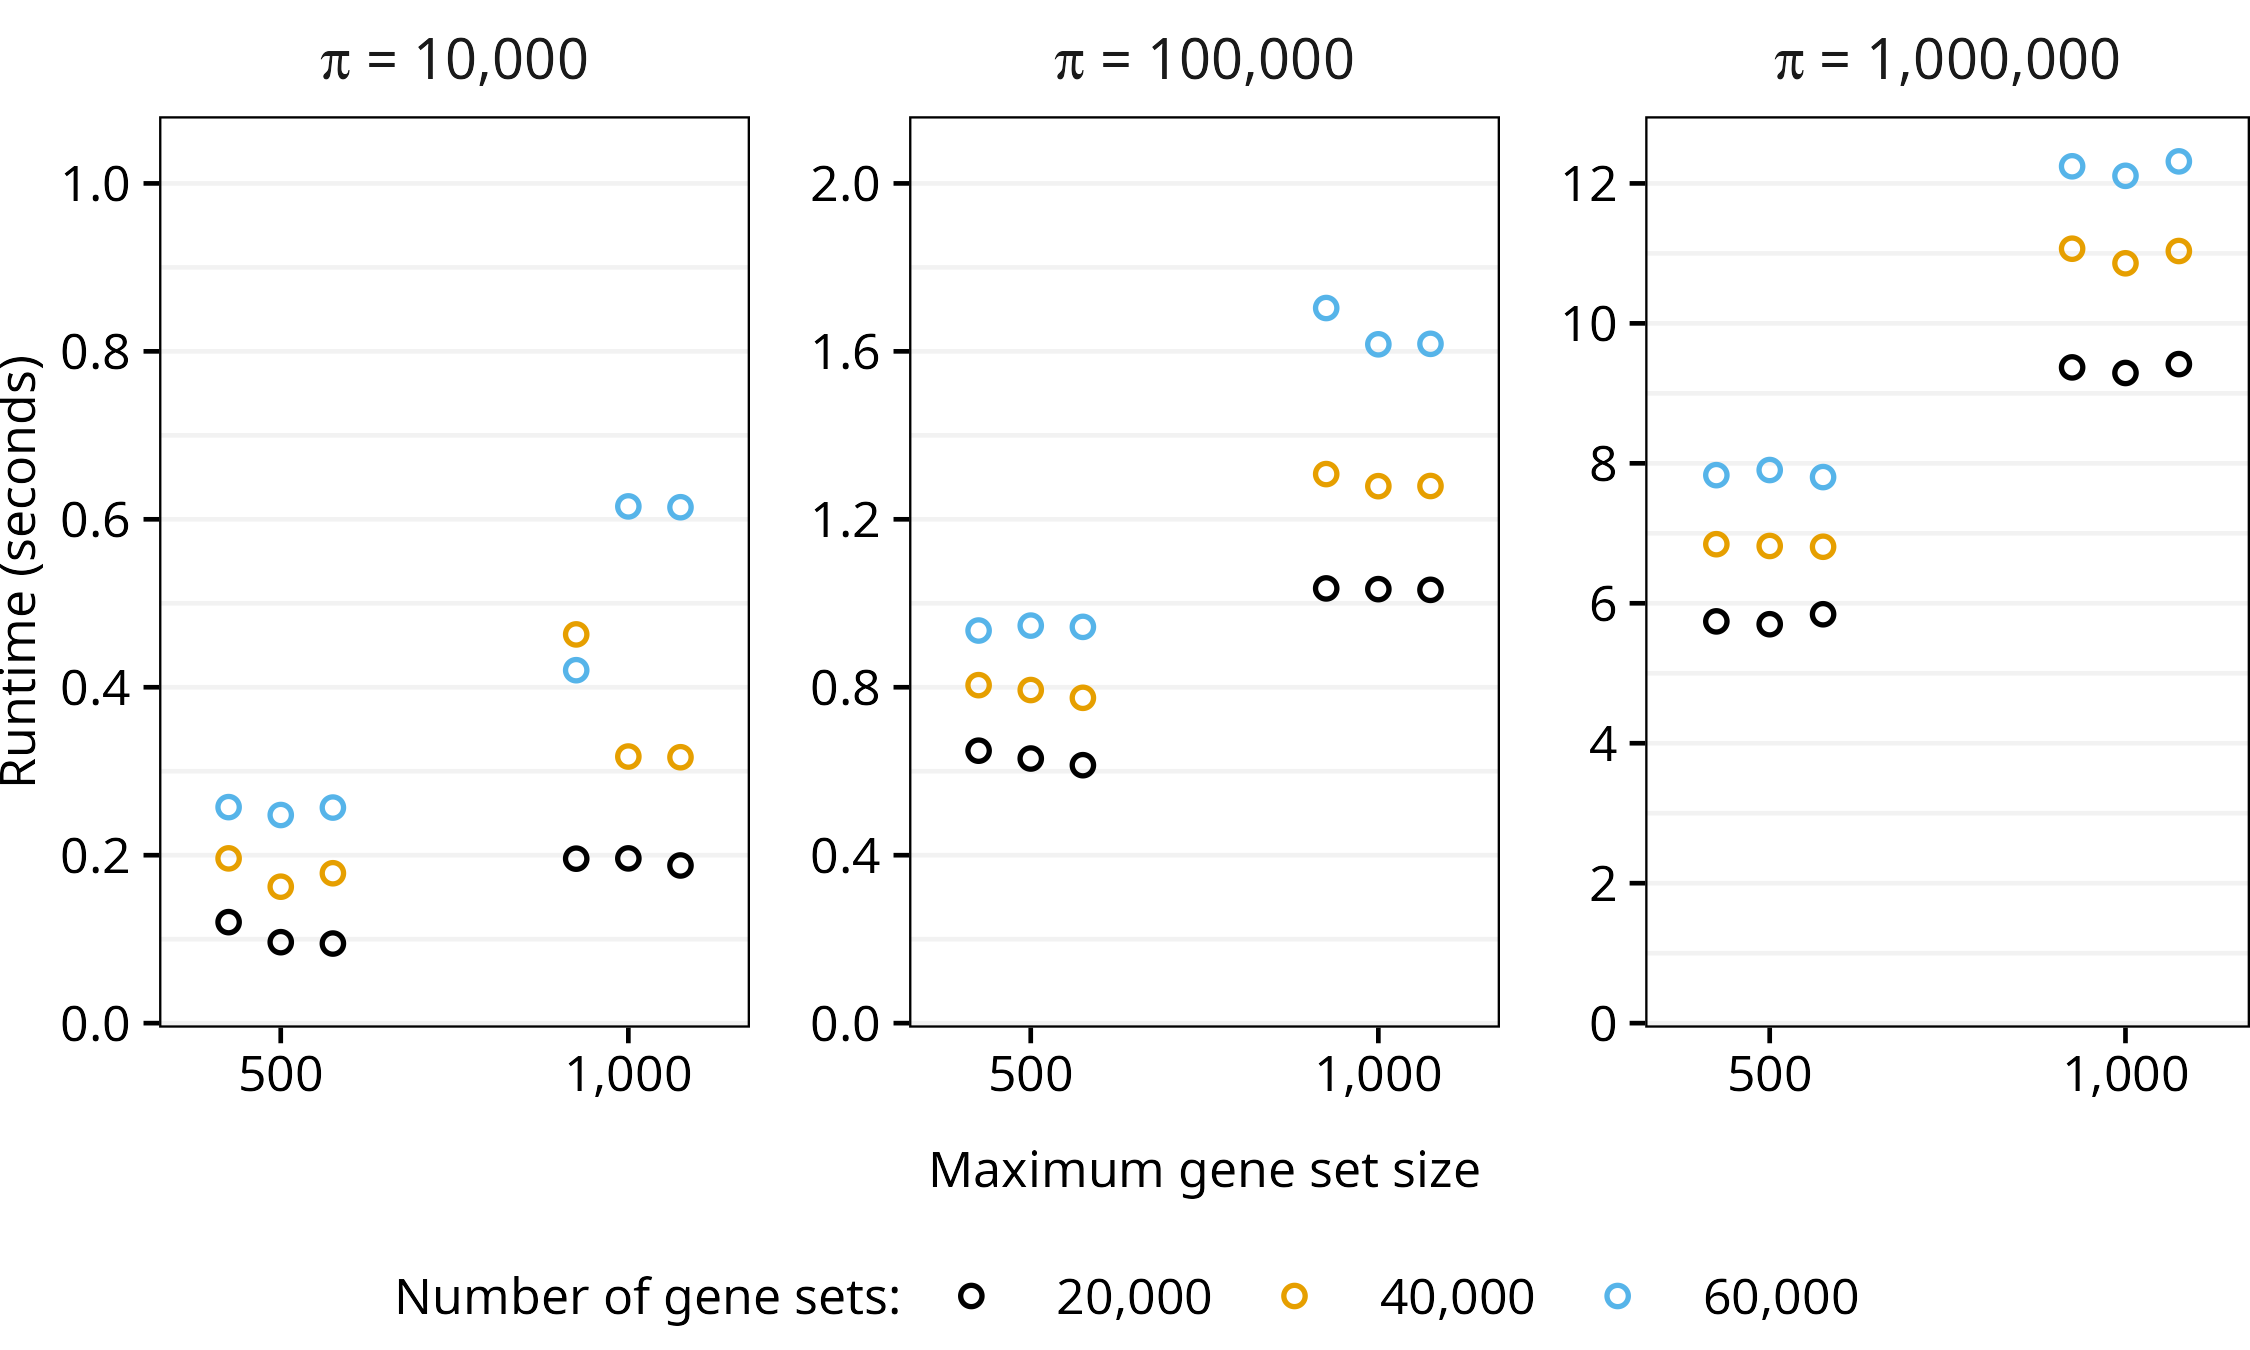
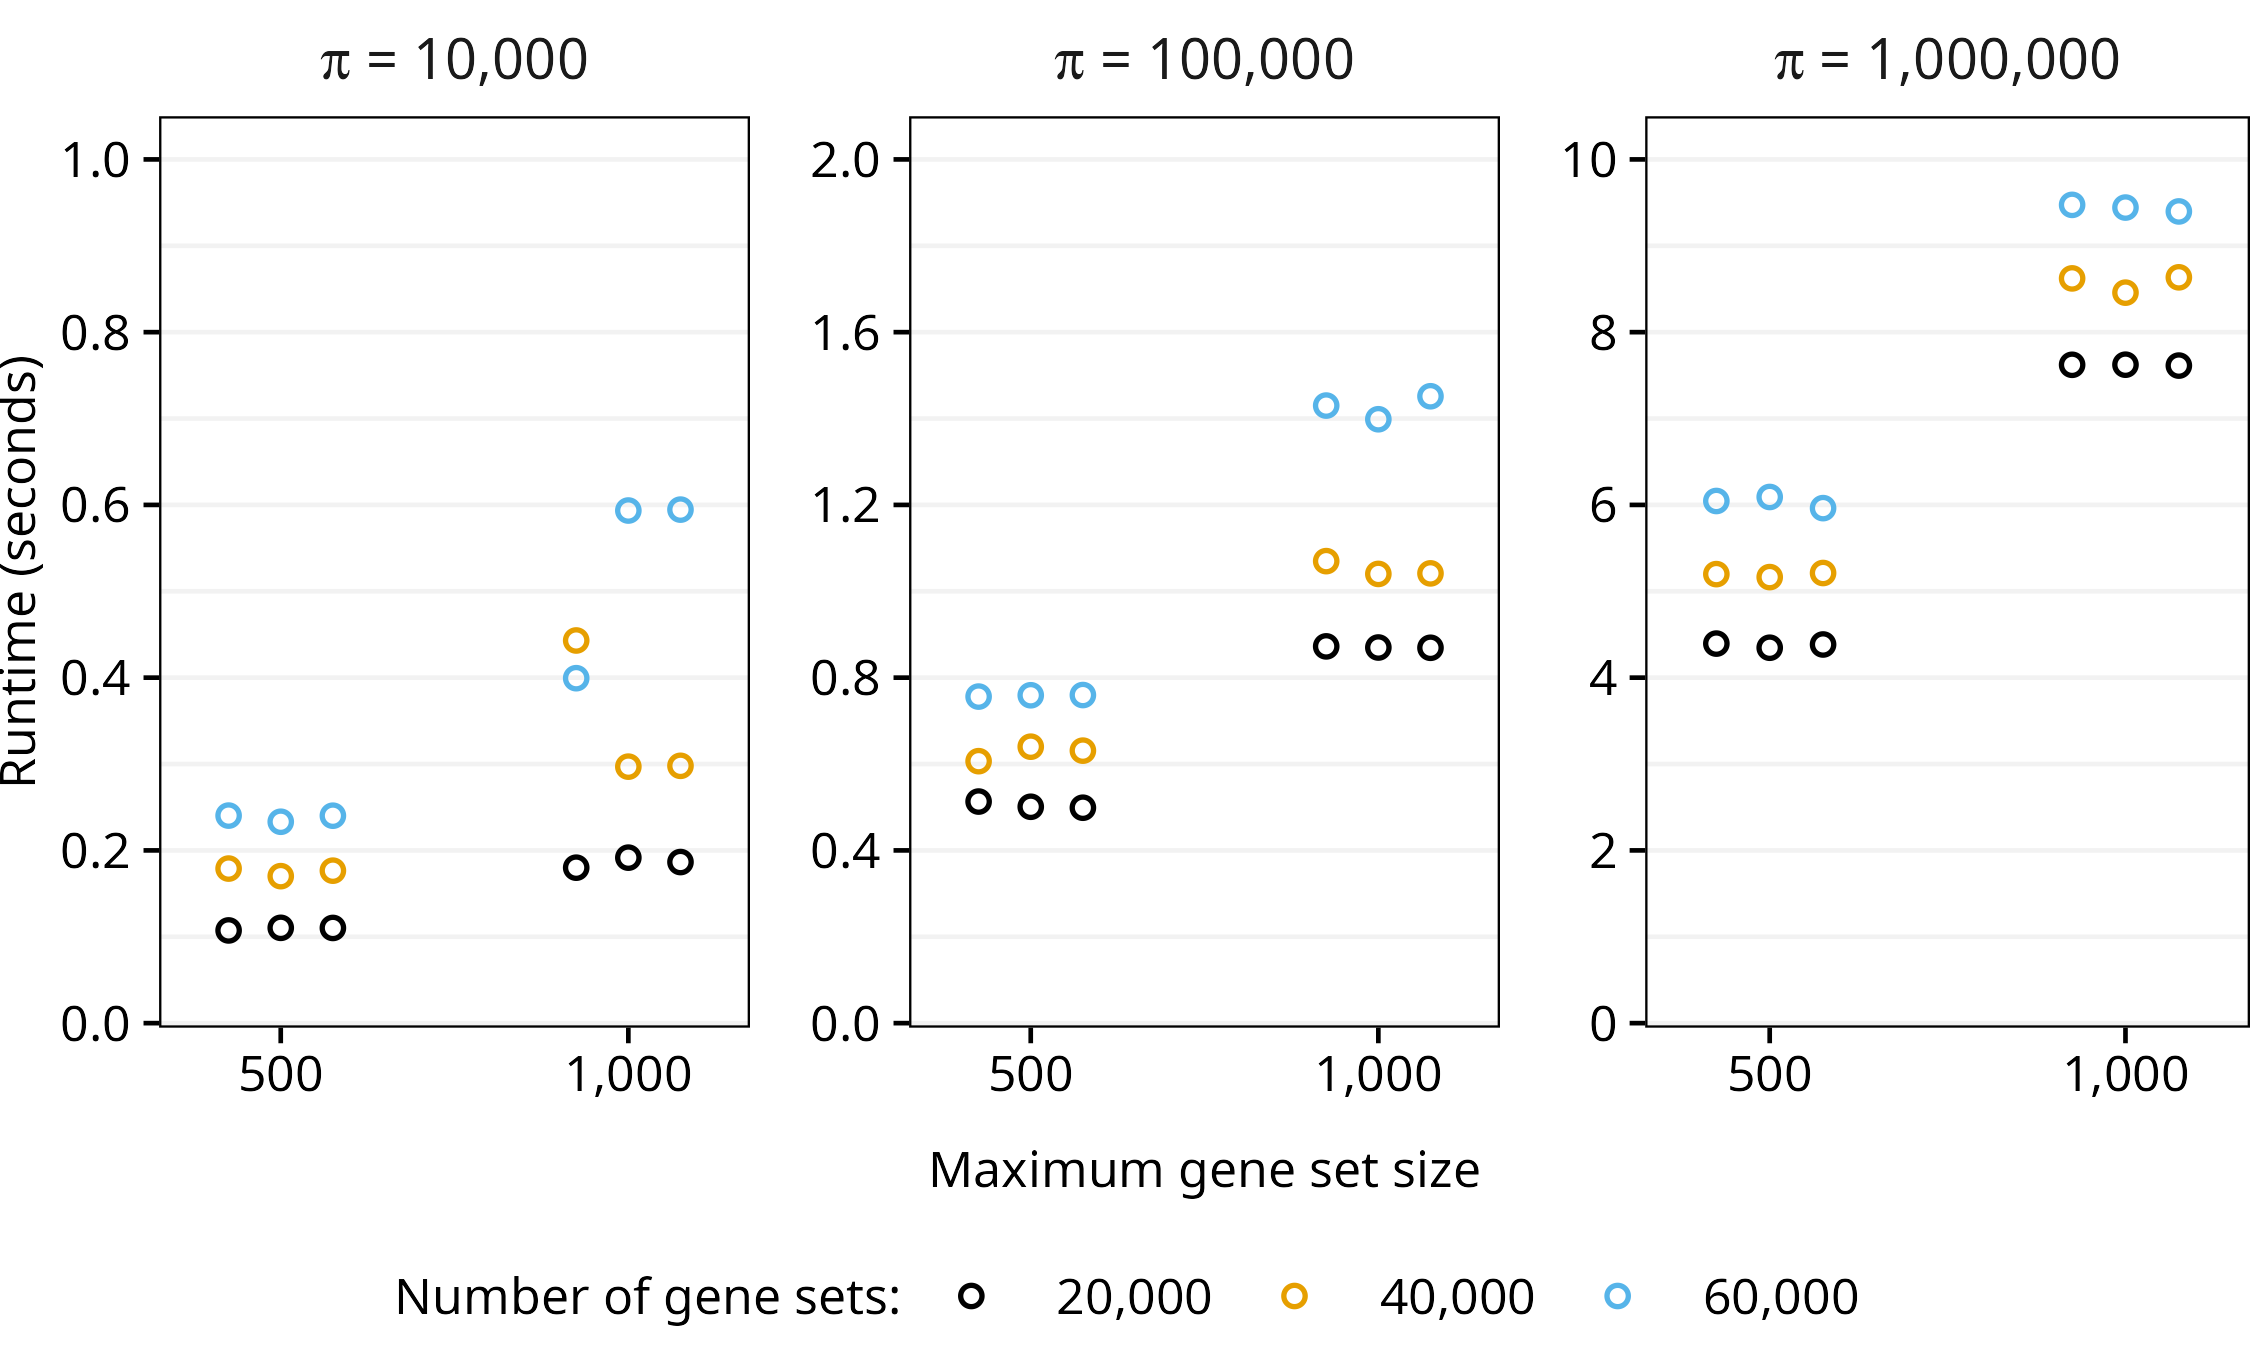
Sort permutation ES by sign

diff --git a/src/Rcpp_functions.cpp b/src/Rcpp_functions.cpp
@@ -1,7 +1,7 @@
 // [[Rcpp::depends(dqrng)]]
 #include <dqrng.h>
 
-const int BLOCK_SIZE = 32; // size of permutation ES blocks
+#define BLOCK_SIZE 32
 
 
 //' @title Get the Index of the First Positive ES for Every Unique Gene Set Size
@@ -150,8 +150,6 @@ inline void calc_ES_perm_internal(float *pES_perm_mat,
                                   const float sum_ranks,
                                   const int *punique_m,
                                   const float *punique_w_float) {
-  int idx = 0;
-
   for (int b = 0; b < block_size; ++b) {
     const Rcpp::IntegerVector rand_idx = dqrng::dqsample_int(
       n_genes,
@@ -166,7 +164,9 @@ inline void calc_ES_perm_internal(float *pES_perm_mat,
 
     int start = 0;
 
-    for (int s = 0; s < n_sizes; ++s, ++idx) {
+    int idx = b;
+
+    for (int s = 0; s < n_sizes; ++s, idx += block_size) {
       const int end = punique_m[s];
 
       // Prefix sums
@@ -189,10 +189,70 @@ inline void calc_ES_perm_internal(float *pES_perm_mat,
 }
 
 
+//' @title Sort permutation ES by sign
+//'
+//' @param pn_perm_neg a pointer to an integer vector that stores the number of
+//'   negative permutation ES for each unique gene set size.
+//' @param pES_perm_pos_idx a pointer to an integer vector that stores the index
+//'   of the first positive permutation ES for each unique gene set size for a
+//'   given block of permutation ES.
+//' @param pES_perm_mat a pointer to a float vector containing permutation ES.
+//'   Permutation ES for gene sets of the same size are arranged in blocks of
+//'   (at most) 32 consecutive elements.
+//' @param n_sizes integer; the number of unique gene set sizes.
+//' @param block_size integer; the size of a block of permutation ES. Between 1
+//'   and 32.
+//'
+//' @details For each unique gene set size, sort permutation ES by sign. This is
+//'   done in one pass by swapping elements. By sorting the permutation ES and
+//'   keeping track of the index of the first positive element for each unique
+//'   set size, we can update n_perm_neg in one pass per block of (at most 32)
+//'   permutation ES. Additionally, we can skip needing to check the sign of the
+//'   permutation ES in update_n_same_sign(); instead, the permutation ES loop
+//'   is split to separately iterate over the negative and positive elements.
+//'
+//' @author Tyler Sagendorf
+//'
+//' @noRd
+inline void update_n_perm_neg(int *pn_perm_neg,
+                              int *pES_perm_pos_idx,
+                              float *pES_perm_mat,
+                              const int n_sizes,
+                              const int block_size) {
+  float swap;
+
+  int start_perm = 0;
+
+  for (int s = 0; s < n_sizes; ++s) {
+    const int end_perm = start_perm + block_size;
+
+    int swap_index = start_perm - 1;
+
+    for (int k = start_perm; k < end_perm; ++k) {
+
+      if (pES_perm_mat[k] < 0.0f) {
+        ++swap_index;
+
+        swap = pES_perm_mat[k];
+        pES_perm_mat[k] = pES_perm_mat[swap_index];
+        pES_perm_mat[swap_index] = swap;
+      }
+    }
+
+    swap_index += 1 - start_perm; // between 0 and block_size
+
+    pn_perm_neg[s] += swap_index;
+    pES_perm_pos_idx[s] = swap_index;
+
+    start_perm = end_perm;
+  }
+}
+
+
 inline void update_n_as_extreme(int *pn_as_extreme,
-                                int *pn_perm_neg,
                                 float *psum_perm_neg,
                                 float *psum_perm_pos,
+                                const int *pES_perm_pos_idx,
                                 const float *pES_perm_mat,
                                 const float *pES,
                                 const int *pES_start,
@@ -200,60 +260,69 @@ inline void update_n_as_extreme(int *pn_as_extreme,
                                 const int *pES_end,
                                 const int n_sizes,
                                 const int block_size) {
-  int start_block, end_block;
+  int start_block;
+
+  int idx = 0;
 
   for (int s = 0; s < n_sizes; ++s) {
     const int ES_start_s = pES_start[s];
     const int ES_pos_idx_s = pES_pos_idx[s];
     const int ES_end_s = pES_end[s];
 
-    int idx = s - n_sizes;
+    const int ES_perm_pos_idx_s = pES_perm_pos_idx[s];
 
-    for (int b = 0; b < block_size; ++b) {
-      idx += n_sizes;
+    // Negative permutation ES ----
+    float sum_perm = 0.0f;
 
+    const int end_block_neg = ES_pos_idx_s - 3;
+
+    for (int b = 0; b < ES_perm_pos_idx_s; ++b, ++idx) {
       const float ES_perm = pES_perm_mat[idx];
 
-      if (ES_perm < 0.0f) {
-        ++pn_perm_neg[s];
-        psum_perm_neg[s] -= ES_perm;
+      sum_perm -= ES_perm;
 
-        // Iterate over negative ES
-        start_block = ES_start_s;
-        end_block = ES_pos_idx_s - 4;
+      start_block = ES_start_s;
 
-        while (start_block < end_block) {
-          for (int k = 0; k < 4; ++k) { // vectorized by compiler
-            pn_as_extreme[start_block] += ES_perm <= pES[start_block];
-            ++start_block;
-          }
+      // Negative ES
+      while (start_block < end_block_neg) {
+        for (int k = 0; k < 4; ++k, ++start_block) { // vectorized by compiler
+          pn_as_extreme[start_block] += ES_perm <= pES[start_block];
         }
-
-        for (int k = start_block; k < ES_pos_idx_s; ++k) {
-          pn_as_extreme[k] += ES_perm <= pES[k];
-        }
-
-      } else {
-        psum_perm_pos[s] += ES_perm;
-
-        // Iterate over positive ES
-        start_block = ES_pos_idx_s;
-        end_block = ES_end_s - 4;
-
-        while (start_block < end_block) {
-          for (int k = 0; k < 4; ++k) {
-            pn_as_extreme[start_block] += ES_perm >= pES[start_block];
-            ++start_block;
-          }
-        }
-
-        for (int k = start_block; k < ES_end_s; ++k) {
-          pn_as_extreme[k] += ES_perm >= pES[k];
-        }
-
       }
 
-    } // end block ES loop
+      for (int k = start_block; k < ES_pos_idx_s; ++k) {
+        pn_as_extreme[k] += ES_perm <= pES[k];
+      }
+    }
+
+    psum_perm_neg[s] += sum_perm;
+
+    // Positive permutation ES ----
+    sum_perm = 0.0f;
+
+    const int end_block_pos = ES_end_s - 3;
+
+    for (int b = ES_perm_pos_idx_s; b < block_size; ++b, ++idx) {
+      const float ES_perm = pES_perm_mat[idx];
+
+      sum_perm += ES_perm;
+
+      start_block = ES_pos_idx_s;
+
+      // Positive ES
+      while (start_block < end_block_pos) {
+        for (int k = 0; k < 4; ++k, ++start_block) {
+          pn_as_extreme[start_block] += ES_perm >= pES[start_block];
+        }
+      }
+
+      for (int k = start_block; k < ES_end_s; ++k) {
+        pn_as_extreme[k] += ES_perm >= pES[k];
+      }
+    }
+
+    psum_perm_pos[s] += sum_perm;
+
   } // end unique set size loop
 
   // n_as_extreme, n_perm_neg, sum_perm_neg, sum_perm_pos are modified in place
@@ -357,15 +426,15 @@ void calc_ES_perm(SEXP n_same_sign,
   // Vectors updated with each permutation
   std::vector<int> n_perm_neg(n_sizes);
   int *pn_perm_neg = &n_perm_neg[0];
-  memset(pn_perm_neg, 0, n_sizes * sizeof(int));
+
+  std::vector<int> ES_perm_pos_idx(n_sizes);
+  int *pES_perm_pos_idx = &ES_perm_pos_idx[0];
 
   std::vector<float> sum_perm_neg(n_sizes);
   float *psum_perm_neg = &sum_perm_neg[0];
-  memset(psum_perm_neg, 0, n_sizes * sizeof(float));
 
   std::vector<float> sum_perm_pos(n_sizes, 0.0f);
   float *psum_perm_pos = &sum_perm_pos[0];
-  memset(psum_perm_pos, 0, n_sizes * sizeof(float));
 
   // Index of the first ES in each unique set size group
   std::vector<int> ES_start(n_sizes);
@@ -417,12 +486,22 @@ void calc_ES_perm(SEXP n_same_sign,
       punique_w_float
     );
 
-    // Update n_as_extreme, n_perm_neg, sum_perm_neg, and sum_perm_pos
+    // Sort permutation ES by sign within each block; update n_perm_neg and
+    // ES_perm_pos_idx
+    update_n_perm_neg(
+      pn_perm_neg,
+      pES_perm_pos_idx,
+      pES_perm_mat,
+      n_sizes,
+      partial_block_size
+    );
+
+    // Update n_as_extreme, sum_perm_neg, and sum_perm_pos
     update_n_as_extreme(
       pn_as_extreme,
-      pn_perm_neg,
       psum_perm_neg,
       psum_perm_pos,
+      pES_perm_pos_idx,
       pES_perm_mat,
       pES,
       pES_start,
@@ -452,11 +531,19 @@ void calc_ES_perm(SEXP n_same_sign,
       punique_w_float
     );
 
+    update_n_perm_neg(
+      pn_perm_neg,
+      pES_perm_pos_idx,
+      pES_perm_mat,
+      n_sizes,
+      BLOCK_SIZE
+    );
+
     update_n_as_extreme(
       pn_as_extreme,
-      pn_perm_neg,
       psum_perm_neg,
       psum_perm_pos,
+      pES_perm_pos_idx,
       pES_perm_mat,
       pES,
       pES_start,
@@ -503,8 +590,6 @@ inline void calc_ES_perm_dir_internal(float *pES_perm_mat,
                                       const float *pinv_unique_w_down,
                                       const int *pmap_unique_to_pairs_up,
                                       const int *pmap_unique_to_pairs_down) {
-  int idx = 0;
-
   for (int b = 0; b < block_size; ++b) {
     // Random sample of max_size integers from 0 to n_genes - 1. Used to select
     // pairs of elements from the vectors y and r.
@@ -575,9 +660,11 @@ inline void calc_ES_perm_dir_internal(float *pES_perm_mat,
       start = end;
     }
 
+    int idx = b;
+
     // Combine ES_up and ES_down for a single unique pair of the number of up
     // and down-regulated genes. ES = ES_up - ES_down
-    for (int s = 0; s < n_pairs; ++s, ++idx) {
+    for (int s = 0; s < n_pairs; ++s, idx += block_size) {
       pES_perm_mat[idx] =
         pES_perm_up[pmap_unique_to_pairs_up[s]] -
         pES_perm_down[pmap_unique_to_pairs_down[s]];
@@ -700,15 +787,15 @@ void calc_ES_perm_dir(SEXP n_same_sign,
 
   std::vector<int> n_perm_neg(n_pairs);
   int *pn_perm_neg = &n_perm_neg[0];
-  memset(pn_perm_neg, 0, n_pairs * sizeof(int));
+
+  std::vector<int> ES_perm_pos_idx(n_pairs);
+  int *pES_perm_pos_idx = &ES_perm_pos_idx[0];
 
   std::vector<float> sum_perm_pos(n_pairs);
   float *psum_perm_pos = &sum_perm_pos[0];
-  memset(psum_perm_pos, 0, n_pairs * sizeof(float));
 
   std::vector<float> sum_perm_neg(n_pairs);
   float *psum_perm_neg = &sum_perm_neg[0];
-  memset(psum_perm_neg, 0, n_pairs * sizeof(float));
 
   // Index of the first ES in each unique group of up and down genes
   std::vector<int> ES_start(n_pairs);
@@ -780,11 +867,19 @@ void calc_ES_perm_dir(SEXP n_same_sign,
       pmap_unique_to_pairs_down
     );
 
+    update_n_perm_neg(
+      pn_perm_neg,
+      pES_perm_pos_idx,
+      pES_perm_mat,
+      n_pairs,
+      partial_block_size
+    );
+
     update_n_as_extreme(
       pn_as_extreme,
-      pn_perm_neg,
       psum_perm_neg,
       psum_perm_pos,
+      pES_perm_pos_idx,
       pES_perm_mat,
       pES,
       pES_start,
@@ -821,11 +916,19 @@ void calc_ES_perm_dir(SEXP n_same_sign,
       pmap_unique_to_pairs_down
     );
 
+    update_n_perm_neg(
+      pn_perm_neg,
+      pES_perm_pos_idx,
+      pES_perm_mat,
+      n_pairs,
+      BLOCK_SIZE
+    );
+
     update_n_as_extreme(
       pn_as_extreme,
-      pn_perm_neg,
       psum_perm_neg,
       psum_perm_pos,
+      pES_perm_pos_idx,
       pES_perm_mat,
       pES,
       pES_start,

diff --git a/README.md b/README.md
@@ -173,7 +173,7 @@ system.time({
 ```
 
     ##    user  system elapsed 
-    ##   1.132   0.093   1.147
+    ##   1.065   0.095   1.081
 
 ``` r
 str(res)
@@ -207,7 +207,7 @@ print(sessionInfo(), locale = FALSE, tzone = FALSE)
     ## [1] stats     graphics  grDevices utils     datasets  methods   base     
     ## 
     ## other attached packages:
-    ## [1] dqrng_0.4.1            fast.ssgsea_0.1.0.9032
+    ## [1] dqrng_0.4.1            fast.ssgsea_0.1.0.9034
     ## 
     ## loaded via a namespace (and not attached):
     ##  [1] digest_0.6.39       collapse_2.1.6      fastmap_1.2.0      
